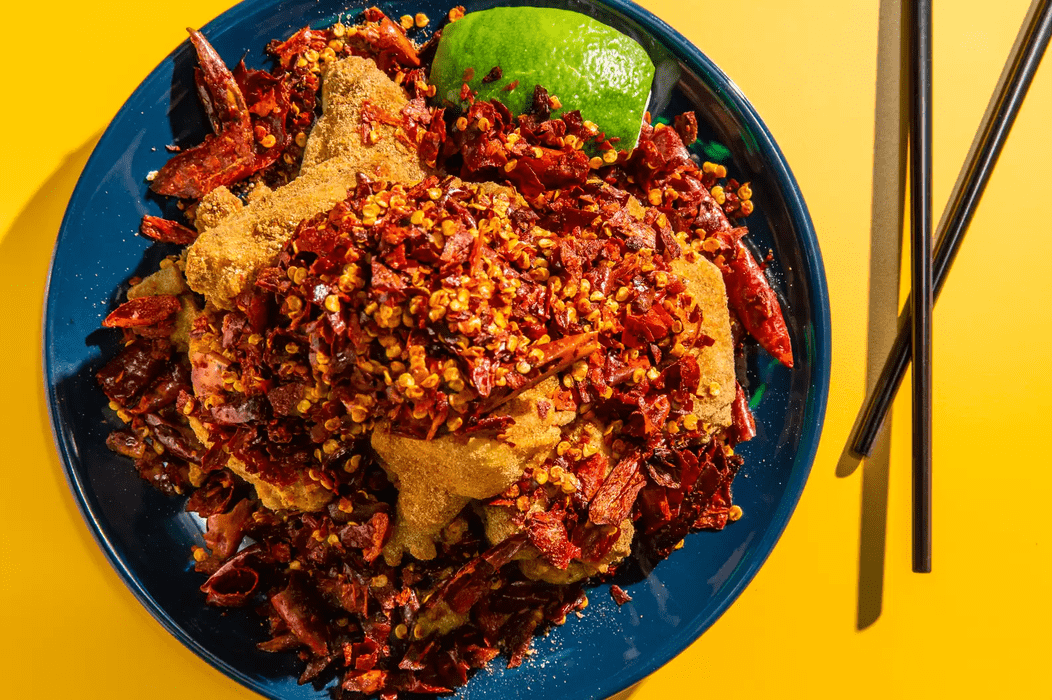
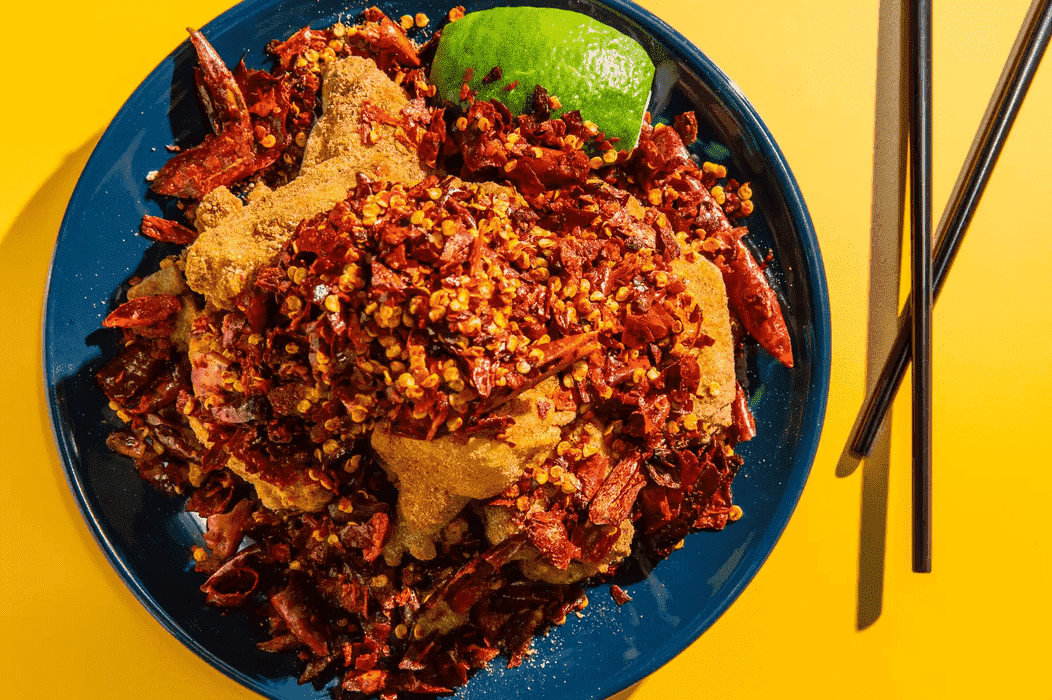
More img compression + fix hotel-button resize bug

diff --git a/styles.css b/styles.css
@@ -959,13 +959,14 @@ aside span {
 .hotel-button {
 	background-color: #fff;
 	display: block;
-	padding: 4px 12px;
-	width: 100%;
+	padding: 4px;
+	color: #000;
 	border-radius: var(--border-inner);
 	font-size: 0.8rem;
 	transition: var(--standard-transition);
 	border: none;
 	border: 1px solid var(--primary-blue-dark);
+	width: 130px;
 }
 
 .hotel-button.active-button {
@@ -984,8 +985,8 @@ aside span {
 .hotel-button.active-button,
 .hotel-booking-btn:hover,
 .hotel-button:hover {
-	background-color: var(--accent-blue-light);
-	color: #000;
+	background-color: var(--primary-blue-muted);
+	color: #fff;
 	border: 1px solid transparent;
 }
 
